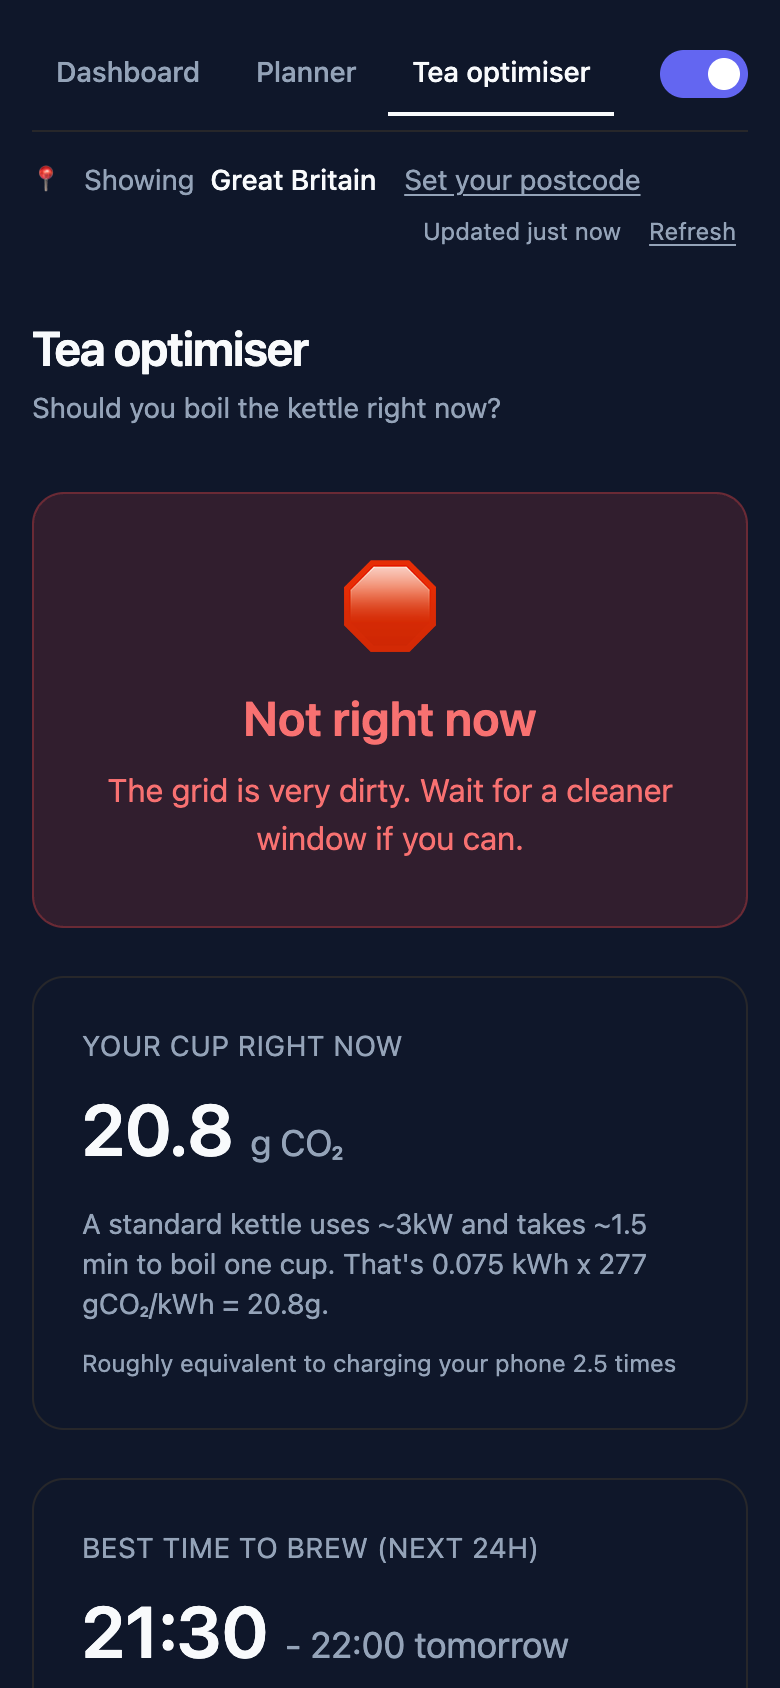
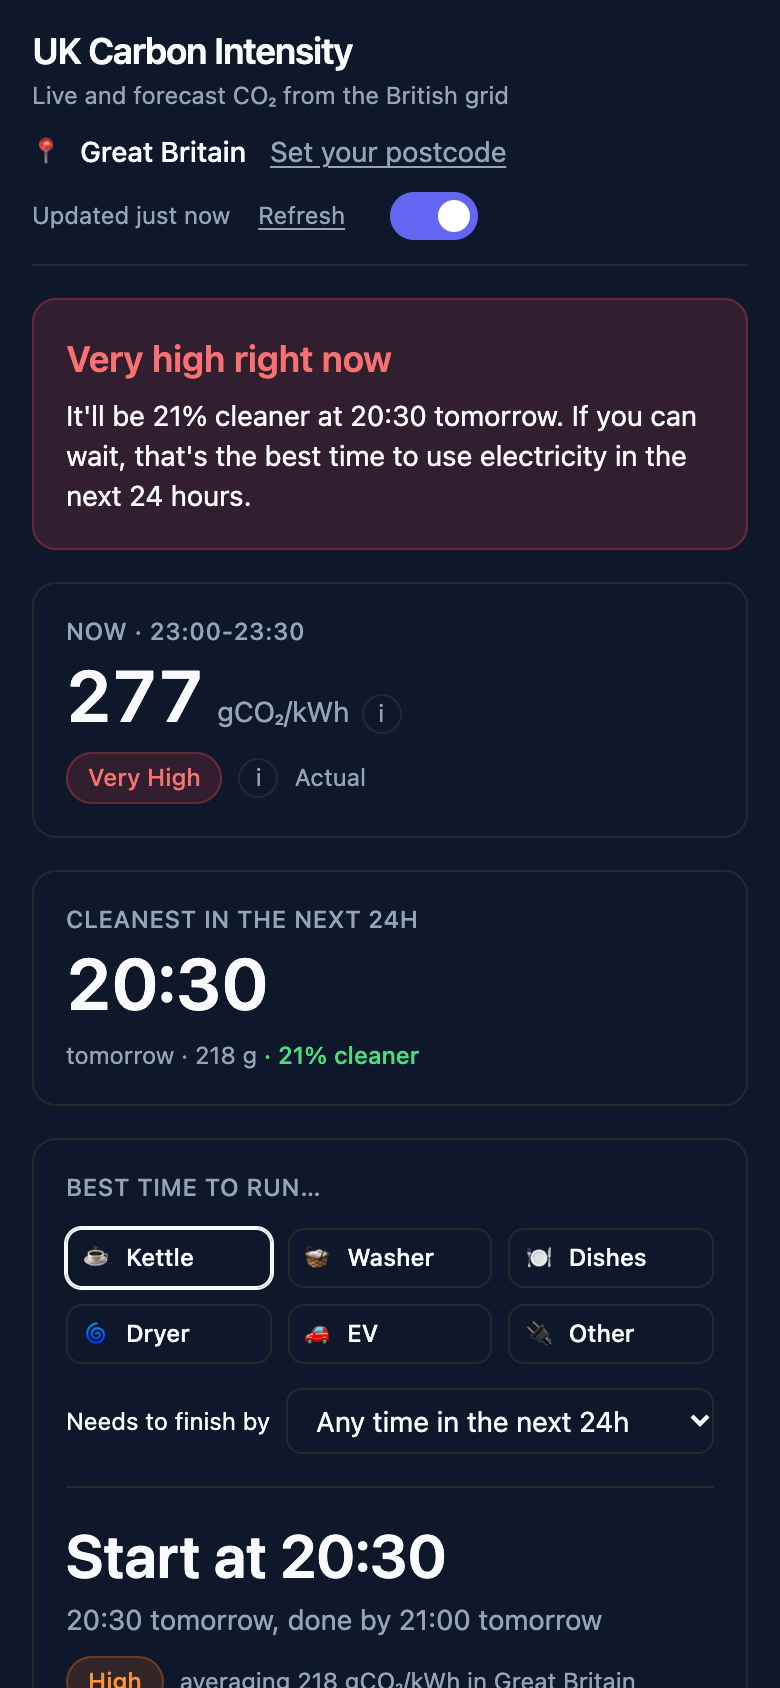
Update README, CLAUDE.md and screenshots for the one-page layout

diff --git a/README.md b/README.md
@@ -6,20 +6,22 @@ How clean is the electricity where you live right now, and when should you run t
 
 **Live**: [mya-carbon-dashboard.vercel.app](https://mya-carbon-dashboard.vercel.app/)
 
-![Dashboard: a one-line summary, current intensity, and the last and next 24 hours](./docs/screenshot.png)
+![The whole app on one page: summary tiles, the 48-hour chart beside the planner, fuel mix and regions](./docs/screenshot.png)
 
 ## What it does
 
 - **Tells you what to do, in one sentence.** "Very high right now · 277 gCO₂/kWh. It'll be 22% cleaner at 21:30 tomorrow."
 - **Shows your area.** Enter a postcode to switch every figure to your grid region, and see how it compares with the other 13 regions and the GB average. The postcode is remembered and kept in the URL, so you can share a link.
-- **Plans your appliances.** Choose a kettle, washing machine, dishwasher, tumble dryer, EV charge or your own appliance, and optionally a "finish by" time. The planner finds the cleanest run of consecutive half hours and tells you how much CO₂ waiting saves.
+- **Plans your appliances.** Choose a kettle, washing machine, dishwasher, tumble dryer, EV charge or your own appliance, and optionally a "finish by" time. The planner finds the cleanest run of consecutive half hours, outlines it on the chart, and tells you how much CO₂ waiting saves.
 - **Shows the trend.** A 48-hour chart: actual intensity for the last 24 hours and the forecast for the next 24, with a "Now" line and shading by intensity level. Export it as PNG or CSV, or read it as a table.
 - **Explains the numbers.** ⓘ popovers explain gCO₂/kWh and the five intensity levels in plain English.
-- **Tea optimiser.** The original, slightly silly page that started it all: should you boil the kettle right now?
+- **Still answers the original question.** The project started as a "tea optimiser". The kettle is now the planner's default appliance, with CO₂ per cup and a phone-charge comparison, and old `/tea` links open it.
 
-| Your area | Appliance planner | Mobile |
-|---|---|---|
-| ![Regions ranked with London highlighted](./docs/your-area.png) | ![EV charge planned to finish by 07:00](./docs/planner.png) | ![Tea optimiser on a phone](./docs/mobile.png) |
+Everything is on **one page**. On a laptop, the headline figures, the chart and the planner all fit on the first screen.
+
+| Your area, planning an EV charge | Mobile |
+|---|---|
+| ![London selected: EV charge planned to finish by 07:00, outlined on the chart, with London highlighted among the regions](./docs/your-area.png) | ![The dashboard on a phone: summary first, then the planner](./docs/mobile.png) |
 
 All data comes from the National Grid ESO's free [Carbon Intensity API](https://carbonintensity.org.uk/).
 
@@ -41,21 +43,23 @@ flowchart LR
     P[findBestWindow<br/>summariseForecast]
     O[toOutcode]
   end
-  subgraph UI
-    D[Dashboard]
-    PL[Planner]
-    T[Tea optimiser]
+  subgraph UI["One page"]
+    S[Summary tiles]
+    C[48h chart]
+    PL[Planner<br/>usePlannerState ↔ URL]
+    R[Fuel mix + regions]
   end
   API --> Q --> H
   L --> H
-  H --> D & PL & T
-  P --> D & PL & T
+  H --> S & C & PL & R
+  P --> S & PL
+  PL -- best window --> C
   O --> L
 ```
 
 - **React 19**, **TypeScript**, **Vite** and **Tailwind CSS v4**
 - **TanStack Query** for fetching, caching and refreshing data
-- **Recharts** for the trend and fuel-mix charts. The planner's timeline is a hand-built SVG.
+- **Recharts** for the 48-hour chart. The fuel-mix and region bars are plain HTML and CSS.
 - **Headless UI** for the accessible popovers, radio group, menu and switch
 - Deployed on **Vercel**. Every push to `main` deploys.
 
@@ -65,22 +69,25 @@ flowchart LR
 
 **Shared, self-refreshing data.** Each URL is fetched once and shared across pages, so moving from Dashboard to Planner makes no new requests. Forecast URLs are rounded to the half hour, matching how often the API publishes. They roll over automatically when the next half hour starts, and keep showing the previous data until the new data arrives, so nothing flickers. Data also refreshes every 30 minutes and when you come back to the tab.
 
-**The planner is a sliding-window search.** `findBestWindow(periods, slots, { now, deadline })` checks every run of `slots` consecutive half hours that hasn't finished yet and ends before the deadline, and picks the one with the lowest average. If the data has a gap, the run is skipped, and ties go to the earliest start. It's a small pure function with its own tests, and the Tea optimiser and dashboard summary use it too.
+**The planner is a sliding-window search.** `findBestWindow(periods, slots, { now, deadline })` checks every run of `slots` consecutive half hours that hasn't finished yet and ends before the deadline, and picks the one with the lowest average. If the data has a gap, the run is skipped, and ties go to the earliest start. It's a small pure function with its own tests, and the summary tiles use it too.
+
+**One page instead of three tabs.** The site used to have Dashboard, Planner and Tea tabs, and each re-showed the same forecast. A review of comparable tools showed a common pattern: headline figures first, then the forecast with the "best time" control right beside it. Examples include carbonintensity.org.uk, Kate Morley's GB grid, energydashboard.co.uk, Octopus Watch and CAISO's Today's Outlook. So the tabs became one page. The planner's choice is drawn on the chart, the kettle became a planner preset, and `/planner` and `/tea` redirect to the planner with the matching appliance. At 1440×900 the page went from using 49% of the width and 2.7 screens of scrolling to 77% and 1.3 screens. On phones it stacks in the same order it reads: summary, planner, chart, fuel mix, regions.
 
 **Regional data is forecast-only.** The regional API has no actual readings, so for a postcode the chart changes from "last 24h & next 24h" to "next 48h" and says why. The current figure is labelled "Forecast only". Unknown postcodes come back from the API in two different ways (a 400 error, or a 200 with no data). Both are handled, and the page shows one clear message.
 
 **Everything you choose is shareable.** Postcode, appliance, charge length and finish time all live in the URL, for example `/planner?postcode=SW1A&appliance=ev&hours=4&by=07:00`.
 
-**Each page loads only what it needs.** Each page is lazy-loaded, and on the Dashboard the two charts load after the summary text. The charting library is the largest dependency, so Planner and Tea visitors never download it, and the summary appears before the charts are ready.
+**The heavy part loads last.** The charting library is the largest dependency, so the chart is lazy-loaded. The summary tiles and planner appear first, and the chart fills in when it's ready.
 
 ## Quality
 
 | | |
 |---|---|
-| **Unit and component tests** | 87 tests (Vitest + Testing Library): the planner, postcode parsing, regional data mapping, URL and localStorage state, the hooks, and key components |
-| **End-to-end tests** | 15 Playwright tests against a mocked API with a frozen clock, so every expected number and time is fixed: summary, postcode flow, unknown postcode, theme persistence, EV planning with a deadline, regional planning, mobile layout |
-| **Accessibility** | axe (WCAG 2 A/AA + best practice) reports **0 violations** on every page in light and dark mode, checked in CI. Charts have text summaries and a table view, every control has a visible focus ring, there's a skip link, and animations respect reduced-motion settings. |
-| **Lighthouse** (production build) | Desktop: **100 / 100 / 100 / 100** on every page. Mobile: Performance 87–98, Accessibility 100, Best practices 100, SEO 100. |
+| **Type safety** | Strict TypeScript (`strict`, `noUncheckedIndexedAccess`, `noImplicitOverride`). No `any` or `!`, and one documented `as` where untyped API data enters the app. |
+| **Unit and component tests** | 94 tests (Vitest + Testing Library): the planner, postcode parsing, regional data mapping, URL and localStorage state, the hooks, and key components |
+| **End-to-end tests** | 17 Playwright tests against a mocked API with a frozen clock, so every expected number and time is fixed: summary, postcode flow, unknown postcode, theme persistence, EV planning with a deadline, the chart highlight, old `/tea` links, regional planning, mobile layout |
+| **Accessibility** | axe (WCAG 2 A/AA + best practice) reports **0 violations** in light and dark mode, national and regional, checked in CI. The chart has a text summary and a table view, every control has a visible focus ring, there's a skip link, reading order matches visual order on every screen size, and animations respect reduced-motion settings. |
+| **Lighthouse** (production build) | Desktop: Performance 98, Accessibility 100, Best practices 100, SEO 100. Mobile: Performance 77–88 (most of the remaining time is waiting for the live API), Accessibility 100, Best practices 100, SEO 100. |
 | **CI** | GitHub Actions runs lint, unit tests, build and end-to-end tests on every pull request |
 
 ## Running locally
@@ -98,9 +105,9 @@ npm run build
 
 ```
 src/
-  pages/        Dashboard, Planner, Tea optimiser (each lazy-loaded)
-  components/   Cards, charts, timeline, postcode form, popovers
-  hooks/        useApiData + one hook per data source, useNow
+  pages/        DashboardPage: the single page and its grid
+  components/   Summary tiles, chart, planner, fuel mix, regions, popovers
+  hooks/        useApiData + one hook per data source, usePlannerState, useNow
   context/      LocationProvider (postcode ↔ URL + localStorage)
   utils/        Pure logic: planner, postcode, regional mapping, formatting
 tests/          Vitest unit and component tests

diff --git a/CLAUDE.md b/CLAUDE.md
@@ -2,7 +2,7 @@
 
 This file provides guidance to Claude Code (claude.ai/code) when working with code in this repository.
 
-UK carbon intensity dashboard, appliance planner and "tea optimiser": React 19 + TypeScript + Vite + Tailwind v4, with data from the public National Grid ESO Carbon Intensity API (`https://api.carbonintensity.org.uk`, no key). It deploys to Vercel automatically from `main`.
+A single-page UK carbon intensity dashboard with an appliance planner: React 19 + TypeScript + Vite + Tailwind v4, with data from the public National Grid ESO Carbon Intensity API (`https://api.carbonintensity.org.uk`, no key). It deploys to Vercel automatically from `main`.
 
 ## Commands
 
@@ -50,16 +50,25 @@ Strict mode is on in both tsconfigs (`strict`, `noUncheckedIndexedAccess`, `noIm
 - **The API only accepts the outward code** (`SW1A`, not `SW1A 1AA`). `toOutcode()` in `utils/postcode.ts` normalises input.
 - **Unknown postcodes fail in two ways:** a 400 with no CORS header (the browser reports a CORS error), or a 200 with `data: null` (the transforms throw a clear error). `DashboardPage` collapses these into one "We couldn't find data for X" alert.
 
+### Page layout
+- **Everything is on one page** (`src/pages/DashboardPage.tsx`), max width `max-w-6xl`. On `lg` and up there are three rows: summary tiles (`SummaryTiles.tsx`); the chart (7 columns) beside `PlannerCard` (5 columns); `FuelMixCard` beside `RegionComparisonCard` (2/3 of a 5-column grid).
+- `PlannerCard` comes **before** the chart in the DOM, so mobile and screen readers get it first. Desktop positions it with `lg:col-start-*`/`lg:row-start-1`. Don't use CSS `order`, because the reading order must match the visual order.
+- **Routes:** `/planner` and `/tea` used to be pages. They now `<Navigate>` to `/?appliance=…#planner`, keeping existing query params. Any other path redirects to `/`.
+- **Panels:** new ones use the compact `Card` component. Theme tokens are listed under "Styling and theme" below.
+
 ### Planner and time logic (`src/utils/planner.ts`)
 - **`findBestWindow(periods, slots, { now, deadline })`** is a sliding window over consecutive, not-yet-finished half hours.
   - Gaps in the data break a window. Ties go to the earliest window. `actual ?? forecast` is preferred.
-  - It powers the dashboard summary (`summariseForecast`), the Tea page's best brew time and `/planner`.
-- **Planner state lives entirely in the URL**: `appliance`, `hours`, `kwh`, `by`, read and written with `useSearchParams` functional updates. That keeps it compatible with `LocationProvider`'s `postcode` param. Presets and parsing are in `utils/appliances.ts`.
+  - It powers the summary tiles (`summariseForecast`, the cleanest-time tile) and the planner.
+- **Planner state lives entirely in the URL**: `appliance` (default `kettle`), `hours`, `kwh`, `by`.
+  - `usePlannerState` reads and writes it with `useSearchParams` functional updates, so it doesn't clobber `LocationProvider`'s `postcode` param.
+  - `DashboardPage` computes the best window once and passes it to both `PlannerCard` and `IntensityTrendChart` (`highlight` prop). The chart outlines it with a dashed `ReferenceArea`.
+  - Presets and parsing are in `utils/appliances.ts`. Chips show `shortLabel`; the accessible name is the full `label`.
 - **Time in render:** `react-hooks/purity` lint forbids `Date.now()` in render. Use `useNow()`, which ticks every minute, and pass `now` into pure functions.
 - **Times are shown in the visitor's local timezone** via `en-GB` formatting (`utils/formatTime.ts`: `formatClock`, `formatClockWithDay`, `dayLabel`). API timestamps are minute-precision UTC: `toApiTime()` gives `2026-11-08T22:30Z`.
 
 ### Code splitting
-Pages are `React.lazy` in `App.tsx`, inside a `Suspense` in `Layout`. On the Dashboard, `IntensityTrendChart` and `GenerationMixChart` are lazy as well, because Recharts is the largest dependency. Keep Recharts out of anything imported by the Planner or Tea pages.
+`DashboardPage` is `React.lazy` in `App.tsx`, inside a `Suspense` in `Layout`. `IntensityTrendChart` is lazy inside it and is the **only** user of Recharts, its largest dependency. The fuel-mix and region bars are plain HTML; keep them that way so the tiles and planner don't wait for Recharts.
 
 ### Styling and theme
 - Tailwind v4, with colours from CSS variables in `src/index.css`. Light mode is the `.theme-light` class on `<html>`, toggled in `Layout`.
@@ -68,7 +77,7 @@ Pages are `React.lazy` in `App.tsx`, inside a `Suspense` in `Layout`. On the Das
 
 ## Testing conventions
 
-- **Component and page tests** mock the data hooks by module path, e.g. `vi.mock("../src/hooks/useIntensityForecast", …)`. Anything that renders `App` must mock every data hook it reaches. `App.test` uses `findBy*` because pages are lazy.
+- **Component and page tests** mock the data hooks by module path, e.g. `vi.mock("../src/hooks/useIntensityForecast", …)`. Anything that renders `App` must mock every data hook it reaches. `App.test` uses `findBy*` because pages are lazy. `DashboardPage.test` also mocks `IntensityTrendChart` with a stub that renders the `highlight` it receives.
 - **Tests that call `useApiData` for real** (hook and provider tests) need the wrapper from `tests/support/queryWrapper.tsx`. Components that use `Link` or `useSearchParams` need a `MemoryRouter`.
 - **Time-dependent tests** use `vi.useFakeTimers({ toFake: ["Date"] })` + `vi.setSystemTime(...)`, so only `Date` is faked and Testing Library's `waitFor` still works. Build timestamps from local times (`new Date(y, m, d, h, min).toISOString()`) so the tests pass in any timezone.
 - **E2E** (`e2e/`): `mockApi(page)` in `e2e/mockApi.ts` freezes the clock at `NOW` (16 May 2026, 21:10 London) and answers every API path with fixtures.
